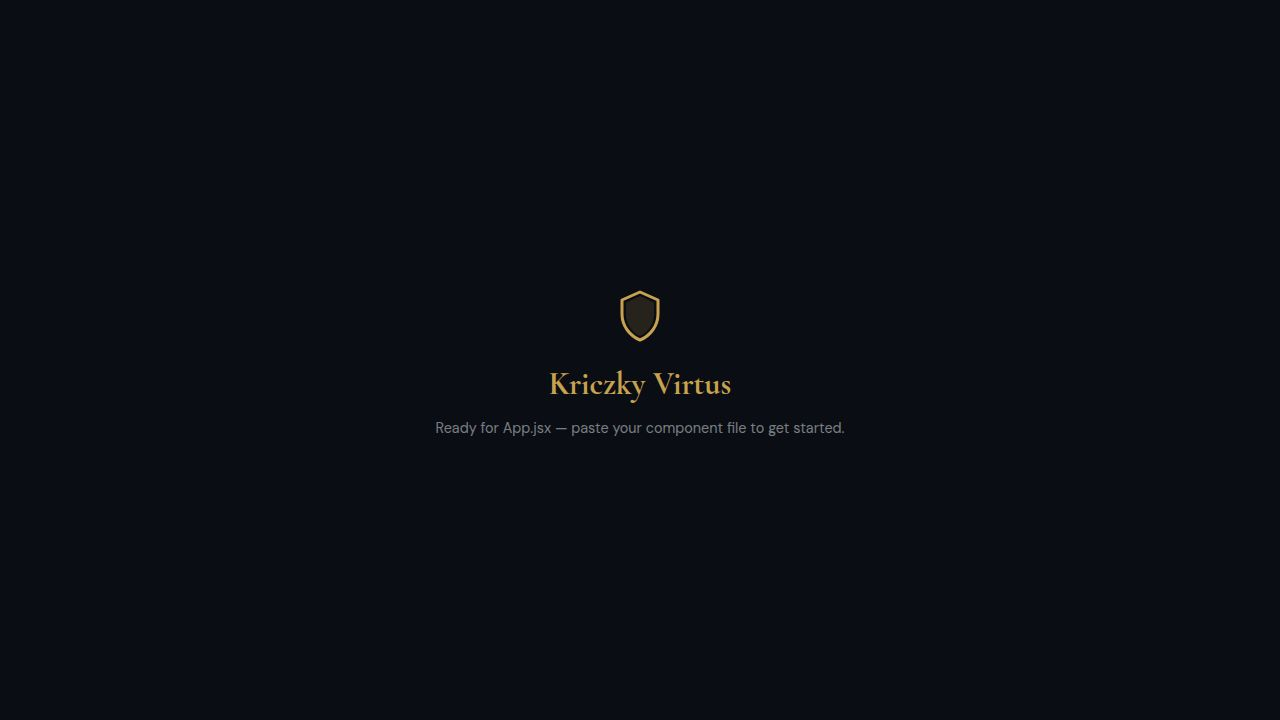
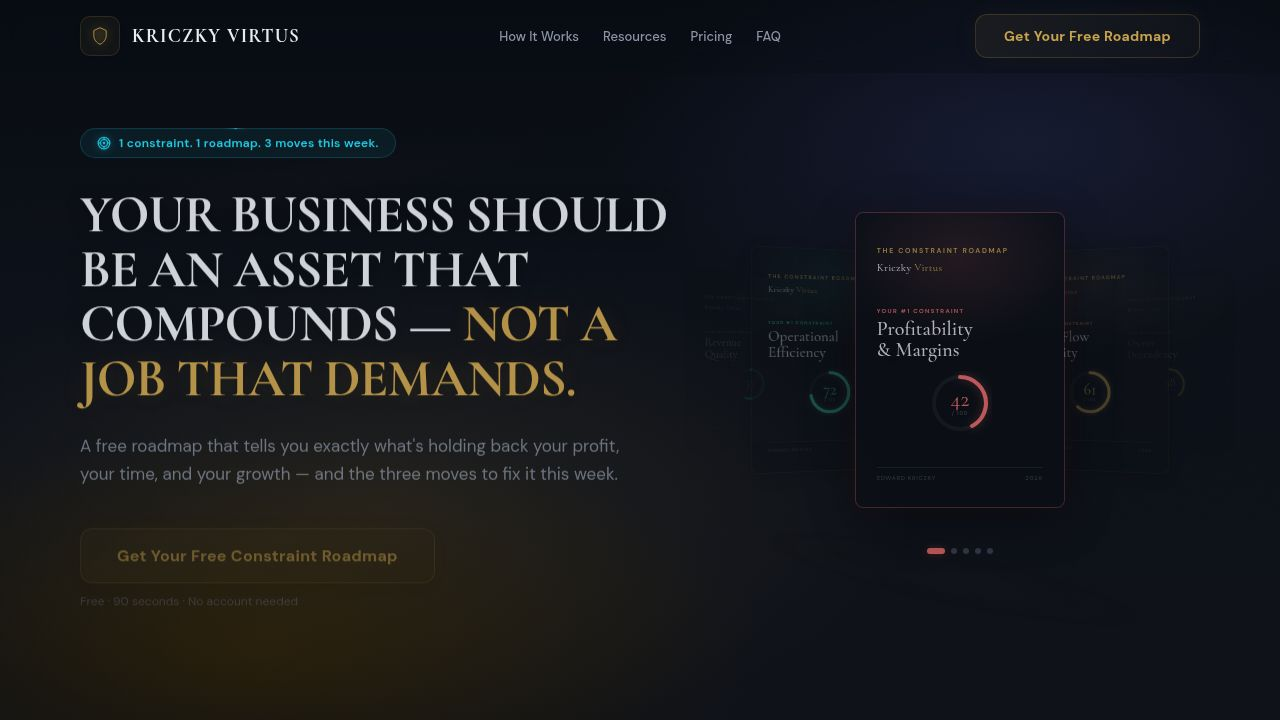
Align badge positions on Resources and Homepage pages
Adjusts padding and alignment on the Resources page hero section to match the vertical position of the badge with the homepage hero section.

Replit-Commit-Author: Agent
Replit-Commit-Session-Id: c2420ee8-0695-4085-aee3-7abd654feda2
Replit-Commit-Checkpoint-Type: full_checkpoint
Replit-Commit-Event-Id: c12df7ca-0c5c-41a2-a1dd-4956bf3e0531
Replit-Commit-Screenshot-Url: https://storage.googleapis.com/screenshot-production-us-central1/06d361fd-2302-490d-9152-d66aa7f5c9d5/c2420ee8-0695-4085-aee3-7abd654feda2/hWahqEN
Replit-Helium-Checkpoint-Created: true

diff --git a/artifacts/kriczky-virtus/src/ResourcesHub.jsx b/artifacts/kriczky-virtus/src/ResourcesHub.jsx
@@ -1241,7 +1241,7 @@ export default function ResourcesHubV3() {
       <div style={{ position: "relative", zIndex: 1, maxWidth: 1200, margin: "0 auto", padding: "0 40px" }}>
 
         {/* ═══════════ HERO ═══════════ */}
-        <div className="hub-hero" style={{ minHeight: "100vh", padding: "60px 0", display: "flex", alignItems: "center", justifyContent: "space-between", gap: 60 }}>
+        <div className="hub-hero" style={{ minHeight: "100vh", paddingTop: "calc(50vh - 205px)", paddingBottom: "80px", display: "flex", alignItems: "flex-start", justifyContent: "space-between", gap: 60 }}>
           <div className="hub-hero-text" style={{ maxWidth: 560, flexShrink: 0, position: "relative", zIndex: 2 }}>
             {/* Cyan pill kicker with shimmer */}
             <div style={{ display: "inline-flex", alignItems: "center", gap: 8, padding: "7px 18px", borderRadius: 100,